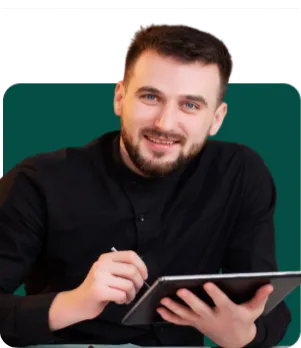
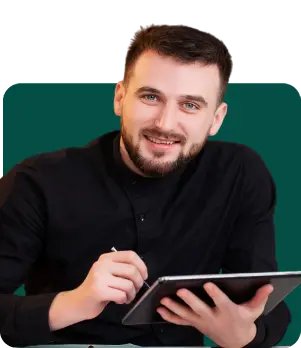
fix: img

diff --git a/src/components/layout/Header.tsx b/src/components/layout/Header.tsx
@@ -27,8 +27,8 @@ const handleWhatsAppClick = () => {
 // Nav items (no hardcoded active)
 const NAV_ITEMS = [
   { name: "Home", href: "/" },
-  { name: "Services", href: "#services" },
-  { name: "Universities", href: "#university-partners" },
+  { name: "Services", href: "/#services" },
+  { name: "Universities", href: "/#university-partners" },
   { name: "Study in New Zealand", href: "/study-abroad/newzealand" }, // Updated Study in New Zealand link to point to the correct route
   { name: "Let's Connect", href: "/contacts" },
 ];

diff --git a/01-plan-and-design/planning/palnning2.md b/01-plan-and-design/planning/palnning2.md
@@ -6,8 +6,7 @@
 - [x] Logo  
 - [x] Navigation: 
   - [x] Home, 
-  - [x] Abwidth="100%"
-                                    out Us, 
+  - [x] About Us, 
   - [x] Study in New Zealand, 
   - [x] Services, 
   - [x] Universities
@@ -70,7 +69,7 @@
   - [x] Translation  
 - [x] Terms of Use & Privacy Policy  
 - [ ] About Us  
-- [ ] Study in New Zealand Page 
+- [x] Study in New Zealand Page 
 - [x] patch up services
 - [x] Patch up Contacts form on landing page
 - [x] Patch up Concats pages 